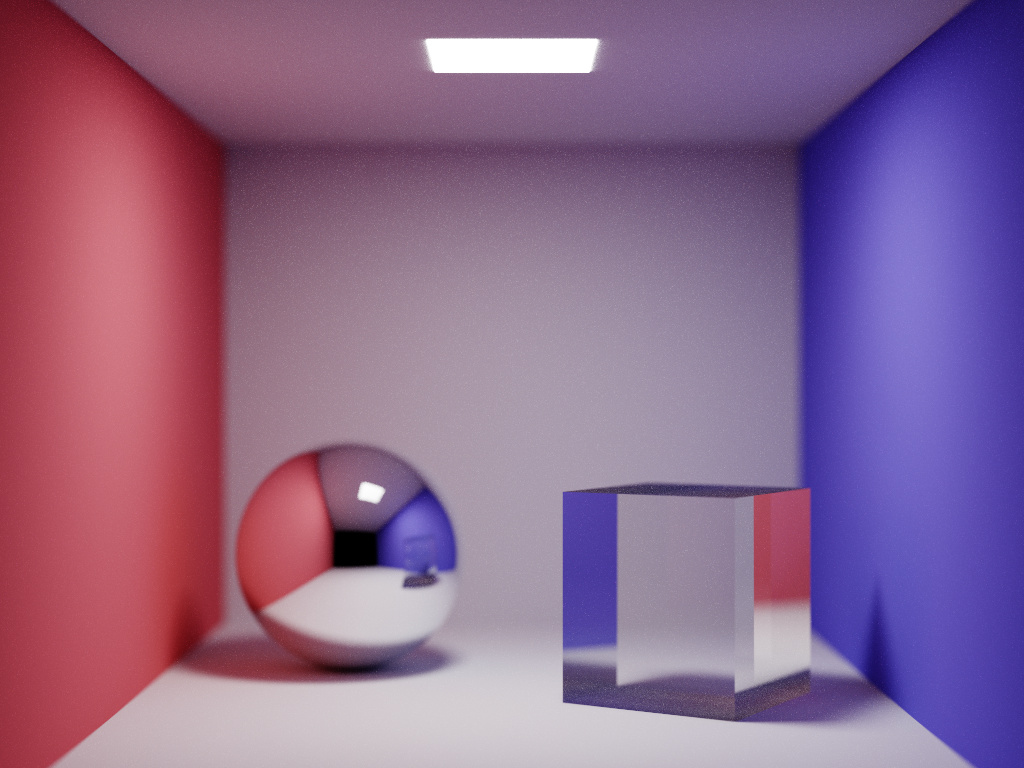
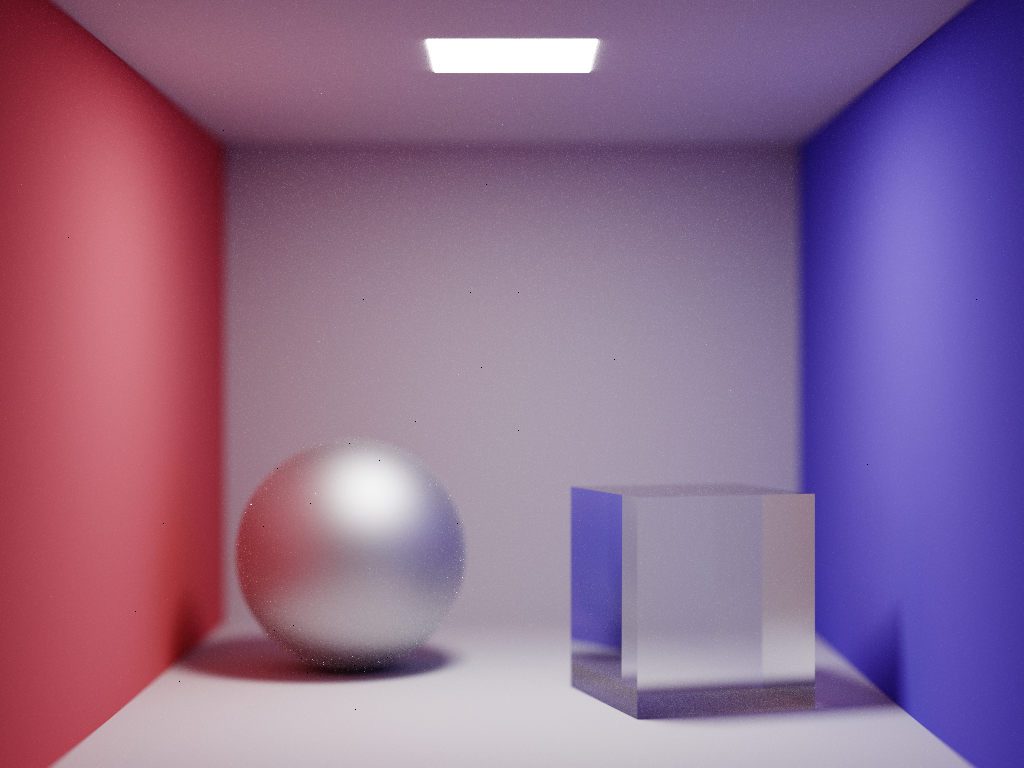
metallic-roughness material

Changed region(s): [[0.5312, 0.625, 0.9062, 0.9688], [0.2188, 0.5625, 0.4688, 0.9062]]

diff --git a/README.md b/README.md
@@ -12,7 +12,7 @@ Although this renderer is not designed for actual real-time rendering, we would 
 - [x] Support triangle mesh
 - [x] Use BVH for acceleration
 - [x] Support Lambertian, Mirror, Dielectric materials
-- [ ] Support Microfacet material
+- [x] Support Metallic-Roughness workflow materials (following [glTF specification](https://registry.khronos.org/glTF/specs/2.0/glTF-2.0.html#appendix-b-brdf-implementation))
 - [x] Path-traced DI & GI
 - [x] Primary Sample Space Metropolis Light Transport
 - [ ] ReSTIR DI
